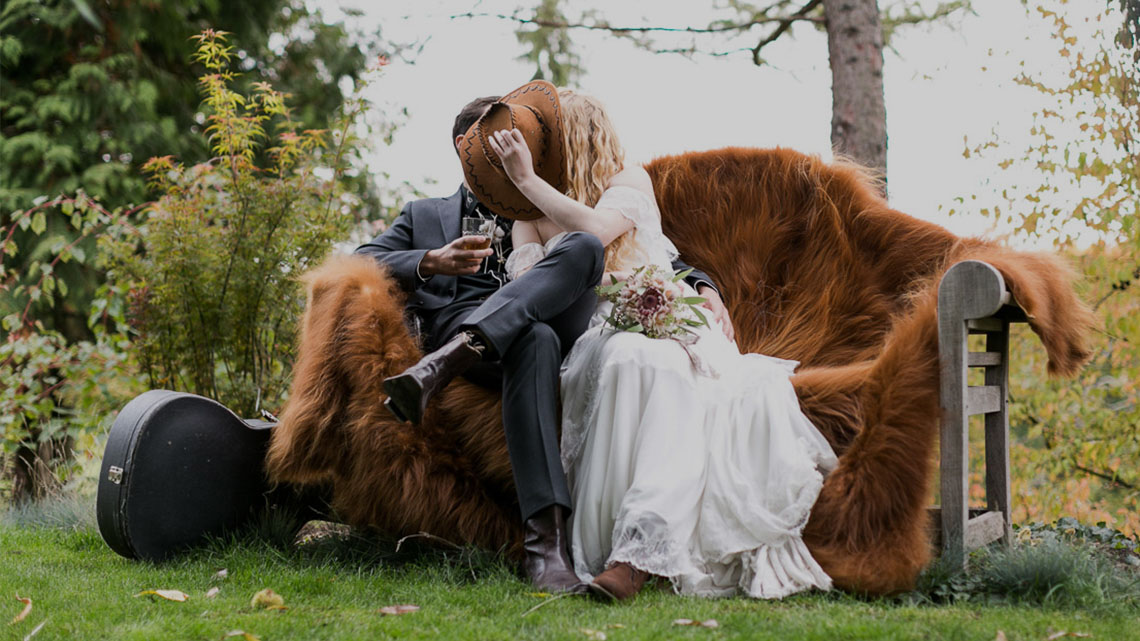
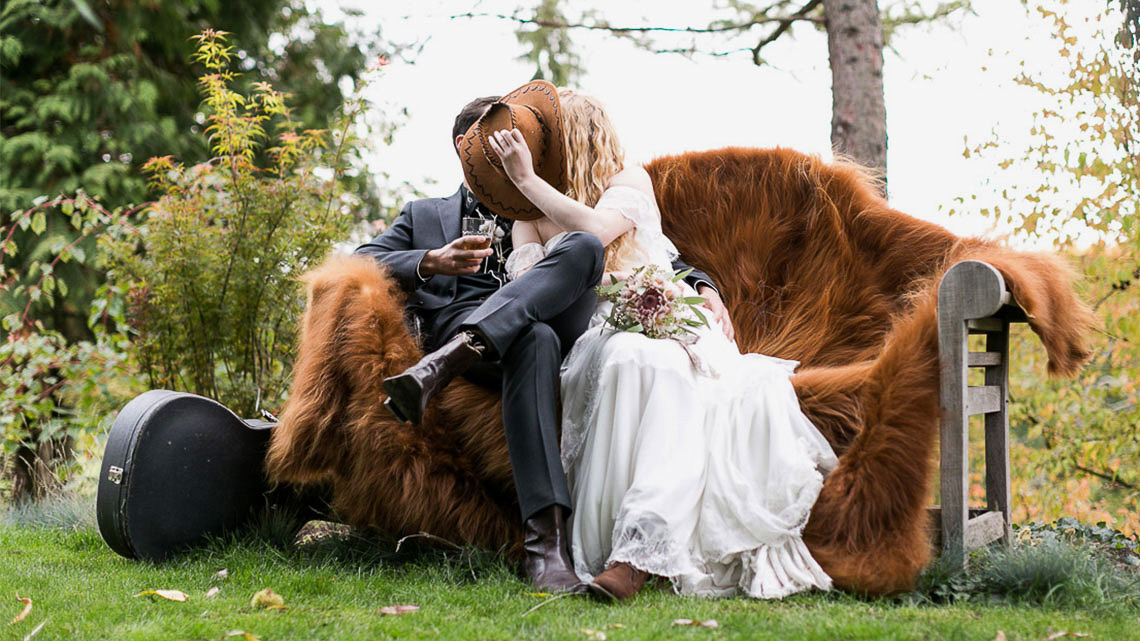
Update jumbotron pics

diff --git a/style/greyskull.css b/style/greyskull.css
@@ -7,7 +7,7 @@ html {
     /* image-rendering: optimizeSpeed;
     image-rendering: -moz-crisp-edges;
     image-rendering: -webkit-optimize-contrast;
-    -ms-interpolation-mode: nearest-neighbor; */ 
+    -ms-interpolation-mode: nearest-neighbor; */
 }
 
 @media
@@ -90,7 +90,7 @@ h1 {
     position: absolute;
     bottom:15%;
     left:15%;
-    right:15%;   
+    right:15%;
 }
 
 .carousel-wrapper {
@@ -101,7 +101,7 @@ h1 {
 
 #carousel-jumbotron .item {
     padding-top: 56.22%;
-    background-position: 0% 0%; 
+    background-position: 0% 0%;
     background-repeat: no-repeat;
     background-size: cover;
 }
@@ -178,6 +178,10 @@ h1 {
 .item-22 {
     background-image: url(../image/jumbotron/22.jpg);
 }
+.item-23 {
+    background-image: url(../image/jumbotron/23.jpg);
+}
+
 
 .glyphicon {
     top: 2px;

diff --git a/part-carousel.php b/part-carousel.php
@@ -23,7 +23,9 @@
       <li data-target="#carousel-jumbotron" data-slide-to="18"></li>
       <li data-target="#carousel-jumbotron" data-slide-to="19"></li>
       <li data-target="#carousel-jumbotron" data-slide-to="20"></li>
-    </ol>
+      <li data-target="#carousel-jumbotron" data-slide-to="21"></li>
+      <li data-target="#carousel-jumbotron" data-slide-to="22"></li>
+</ol>
 
     <!-- Wrapper for slides -->
     <div class="carousel-inner" role="listbox">
@@ -49,6 +51,7 @@
       <div class="item item-20"></div>
       <div class="item item-21"></div>
       <div class="item item-22"></div>
+      <div class="item item-23"></div>
     </div>
 
     <!-- Controls -->
